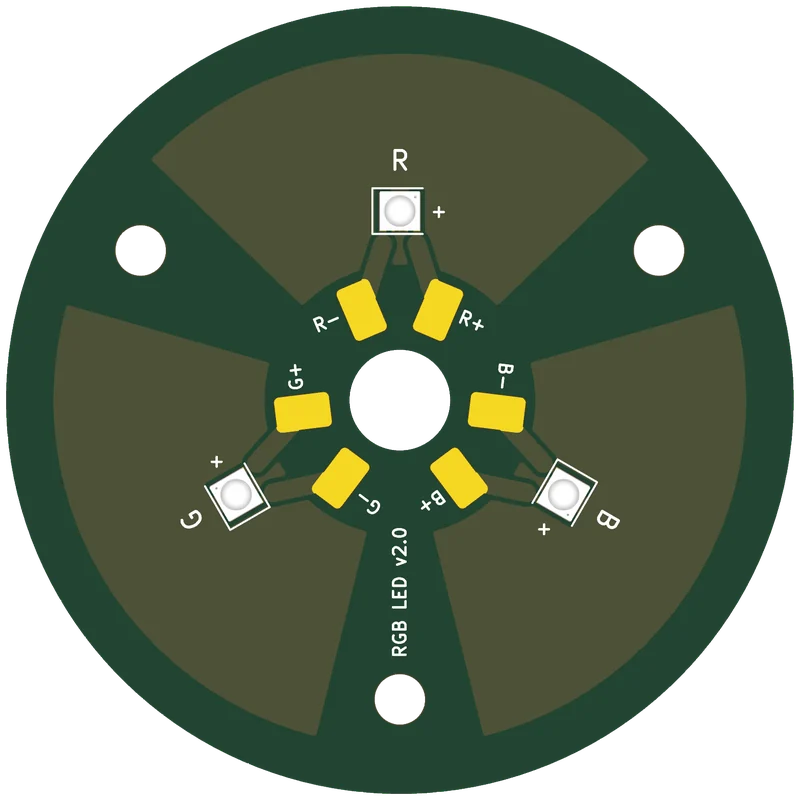
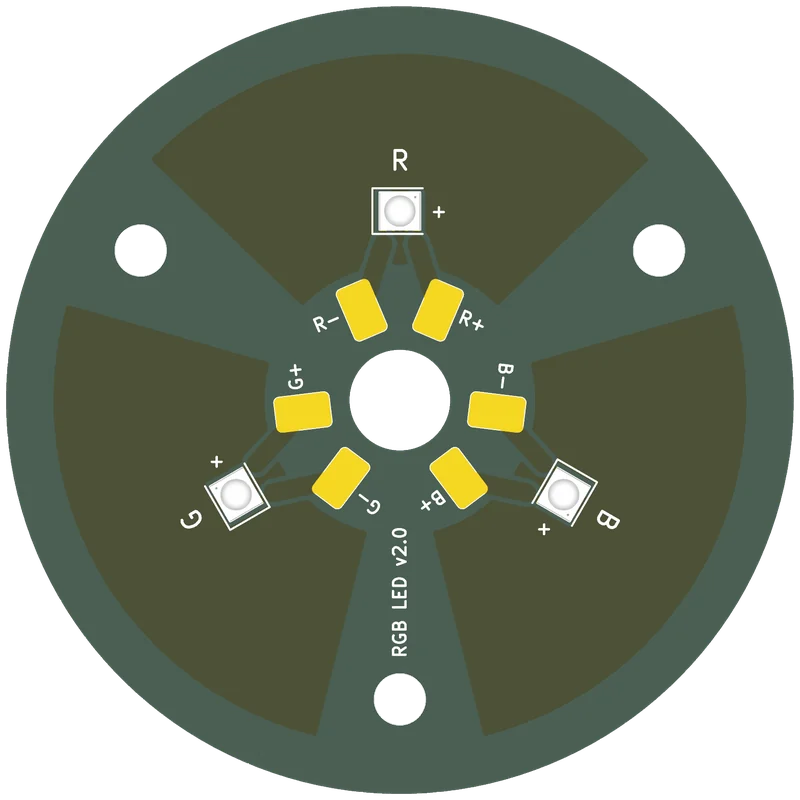
led: render the LED board as aluminium
The LED board rendered as green FR4. Its file now carries an aluminium
stackup (aluminium core, no back mask, green front mask with white silk as a
placeholder for the order choice). gen_led_pcb.py writes it after saving, and
make_previews.sh renders the LED board again with
--use-board-stackup-colors, plus a bottom light for the bare back, since
pcbkit previews uses the default colours. Only render colours change: DRC
0/0/0/0 as before.

Re-rendered: docs/previews/led/render-top/bottom.png, the README image
docs/previews/v2-boards.png (it predated the "+" marks and the v2.0 label),
and the LED images in docs/assembly/.

diff --git a/docs/assembly/index.html b/docs/assembly/index.html
@@ -784,7 +784,7 @@ ol.qs p { color: var(--ink-2); font-size: 14px; margin-top: 2px; }
   </ul>
   <div>To make the renders again, after a board change:</div>
   <ul>
-    <li>Stack images: <code>pcb render -w 1400 -h 1000 --rotate -60,0,30 --zoom 1.1 --quality high</code> on each board, both cropped to x 120–1260, y 150–900. That puts the board centre at (567.3, 341.7) in both, where the drawing expects it.</li>
+    <li>Stack images: <code>pcb render -w 1400 -h 1000 --rotate -60,0,30 --zoom 1.1 --quality high</code> on each board (the LED board with <code>--use-board-stackup-colors</code>, for its aluminium core), both cropped to x 120–1260, y 150–900. That puts the board centre at (567.3, 341.7) in both, where the drawing expects it.</li>
     <li>Driver back: the same with <code>--side bottom</code>, cropped to the board and scaled to 1000 px wide.</li>
     <li>Top views: <code>docs/previews/led/render-top.png</code> and <code>docs/previews/driver/render-top.png</code> scaled to 800 px. All saved as WebP in <code>img/</code>.</li>
   </ul>

diff --git a/scripts/gen_led_pcb.py b/scripts/gen_led_pcb.py
@@ -163,5 +163,30 @@ for ref in ("LED1", "LED2", "LED3"):
 text("RGB LED v2.0", 0, 12.2, 0.8, 90)          # in the bare gap between the green and blue islands
 pcbnew.ZONE_FILLER(b).Fill(b.Zones())
 pcbnew.SaveBoard(OUT, b)
+
+# ---- stackup: aluminium core, no mask on the back -------------------------------------------------------------
+# Written into the saved file's (setup) as text. KiCad's 3-D view and `pcb render --use-board-stackup-colors`
+# (scripts/make_previews.sh) then show the aluminium core and the bare back. The front mask colour (green, with
+# white silk) is a placeholder for the order choice; it changes no copper and no fab layer.
+STACKUP = """\t\t(stackup
+\t\t\t(layer "F.SilkS" (type "Top Silk Screen") (color "White"))
+\t\t\t(layer "F.Paste" (type "Top Solder Paste"))
+\t\t\t(layer "F.Mask" (type "Top Solder Mask") (color "Green") (thickness 0.01))
+\t\t\t(layer "F.Cu" (type "copper") (thickness 0.035))
+\t\t\t(layer "dielectric 1" (type "core") (color "Aluminum") (thickness 1.51) (material "Aluminum") (epsilon_r 4.5) (loss_tangent 0.02))
+\t\t\t(layer "B.Cu" (type "copper") (thickness 0.035))
+\t\t\t(layer "B.Mask" (type "Bottom Solder Mask") (color "#00000000") (thickness 0.01))
+\t\t\t(layer "B.Paste" (type "Bottom Solder Paste"))
+\t\t\t(layer "B.SilkS" (type "Bottom Silk Screen") (color "White"))
+\t\t\t(copper_finish "None")
+\t\t\t(dielectric_constraints no)
+\t\t)
+"""
+with open(OUT) as f:
+    s = f.read()
+if "(stackup" not in s:
+    s = s.replace("\t(setup\n", "\t(setup\n" + STACKUP, 1)
+    with open(OUT, "w") as f:
+        f.write(s)
 print(f"led board: {len(comps)} footprints + wire cutout in the {mech.CORE_D:.0f} mm core, LEDs at r = {R_LED} mm, routed; "
       f"outline {OUTLINE}: {mech.describe(OUTLINE)}, {n_holes} holes")

diff --git a/LAYOUT.md b/LAYOUT.md
@@ -38,6 +38,7 @@ Board centre = origin, millimetres, top view, angles counter-clockwise from +x. 
 ## Stackup and rules
 
 - **LED board:** aluminium, 1.6 mm, 1–2 W/mK; copper on F.Cu only. 0.3 mm clearance, 0.5 mm edge clearance.
+  - The board file carries an aluminium stackup: aluminium core, no back mask, green front mask with white silk (the mask colour is a placeholder for the order). It only sets render colours. `gen_led_pcb.py` writes it, and `make_previews.sh` renders the LED board with it.
 - **Driver board:** FR4, 2 layers, 1.6 mm, GND pour on both layers. 0.2 mm clearance everywhere: the router routes to 0.2 mm, and 12 V needs no more.
 - **Driver net classes:**
   - PWR 0.8 mm (+12V, GND), the taps' width. The 1.5 mm pass-through is drawn explicitly (D12).
